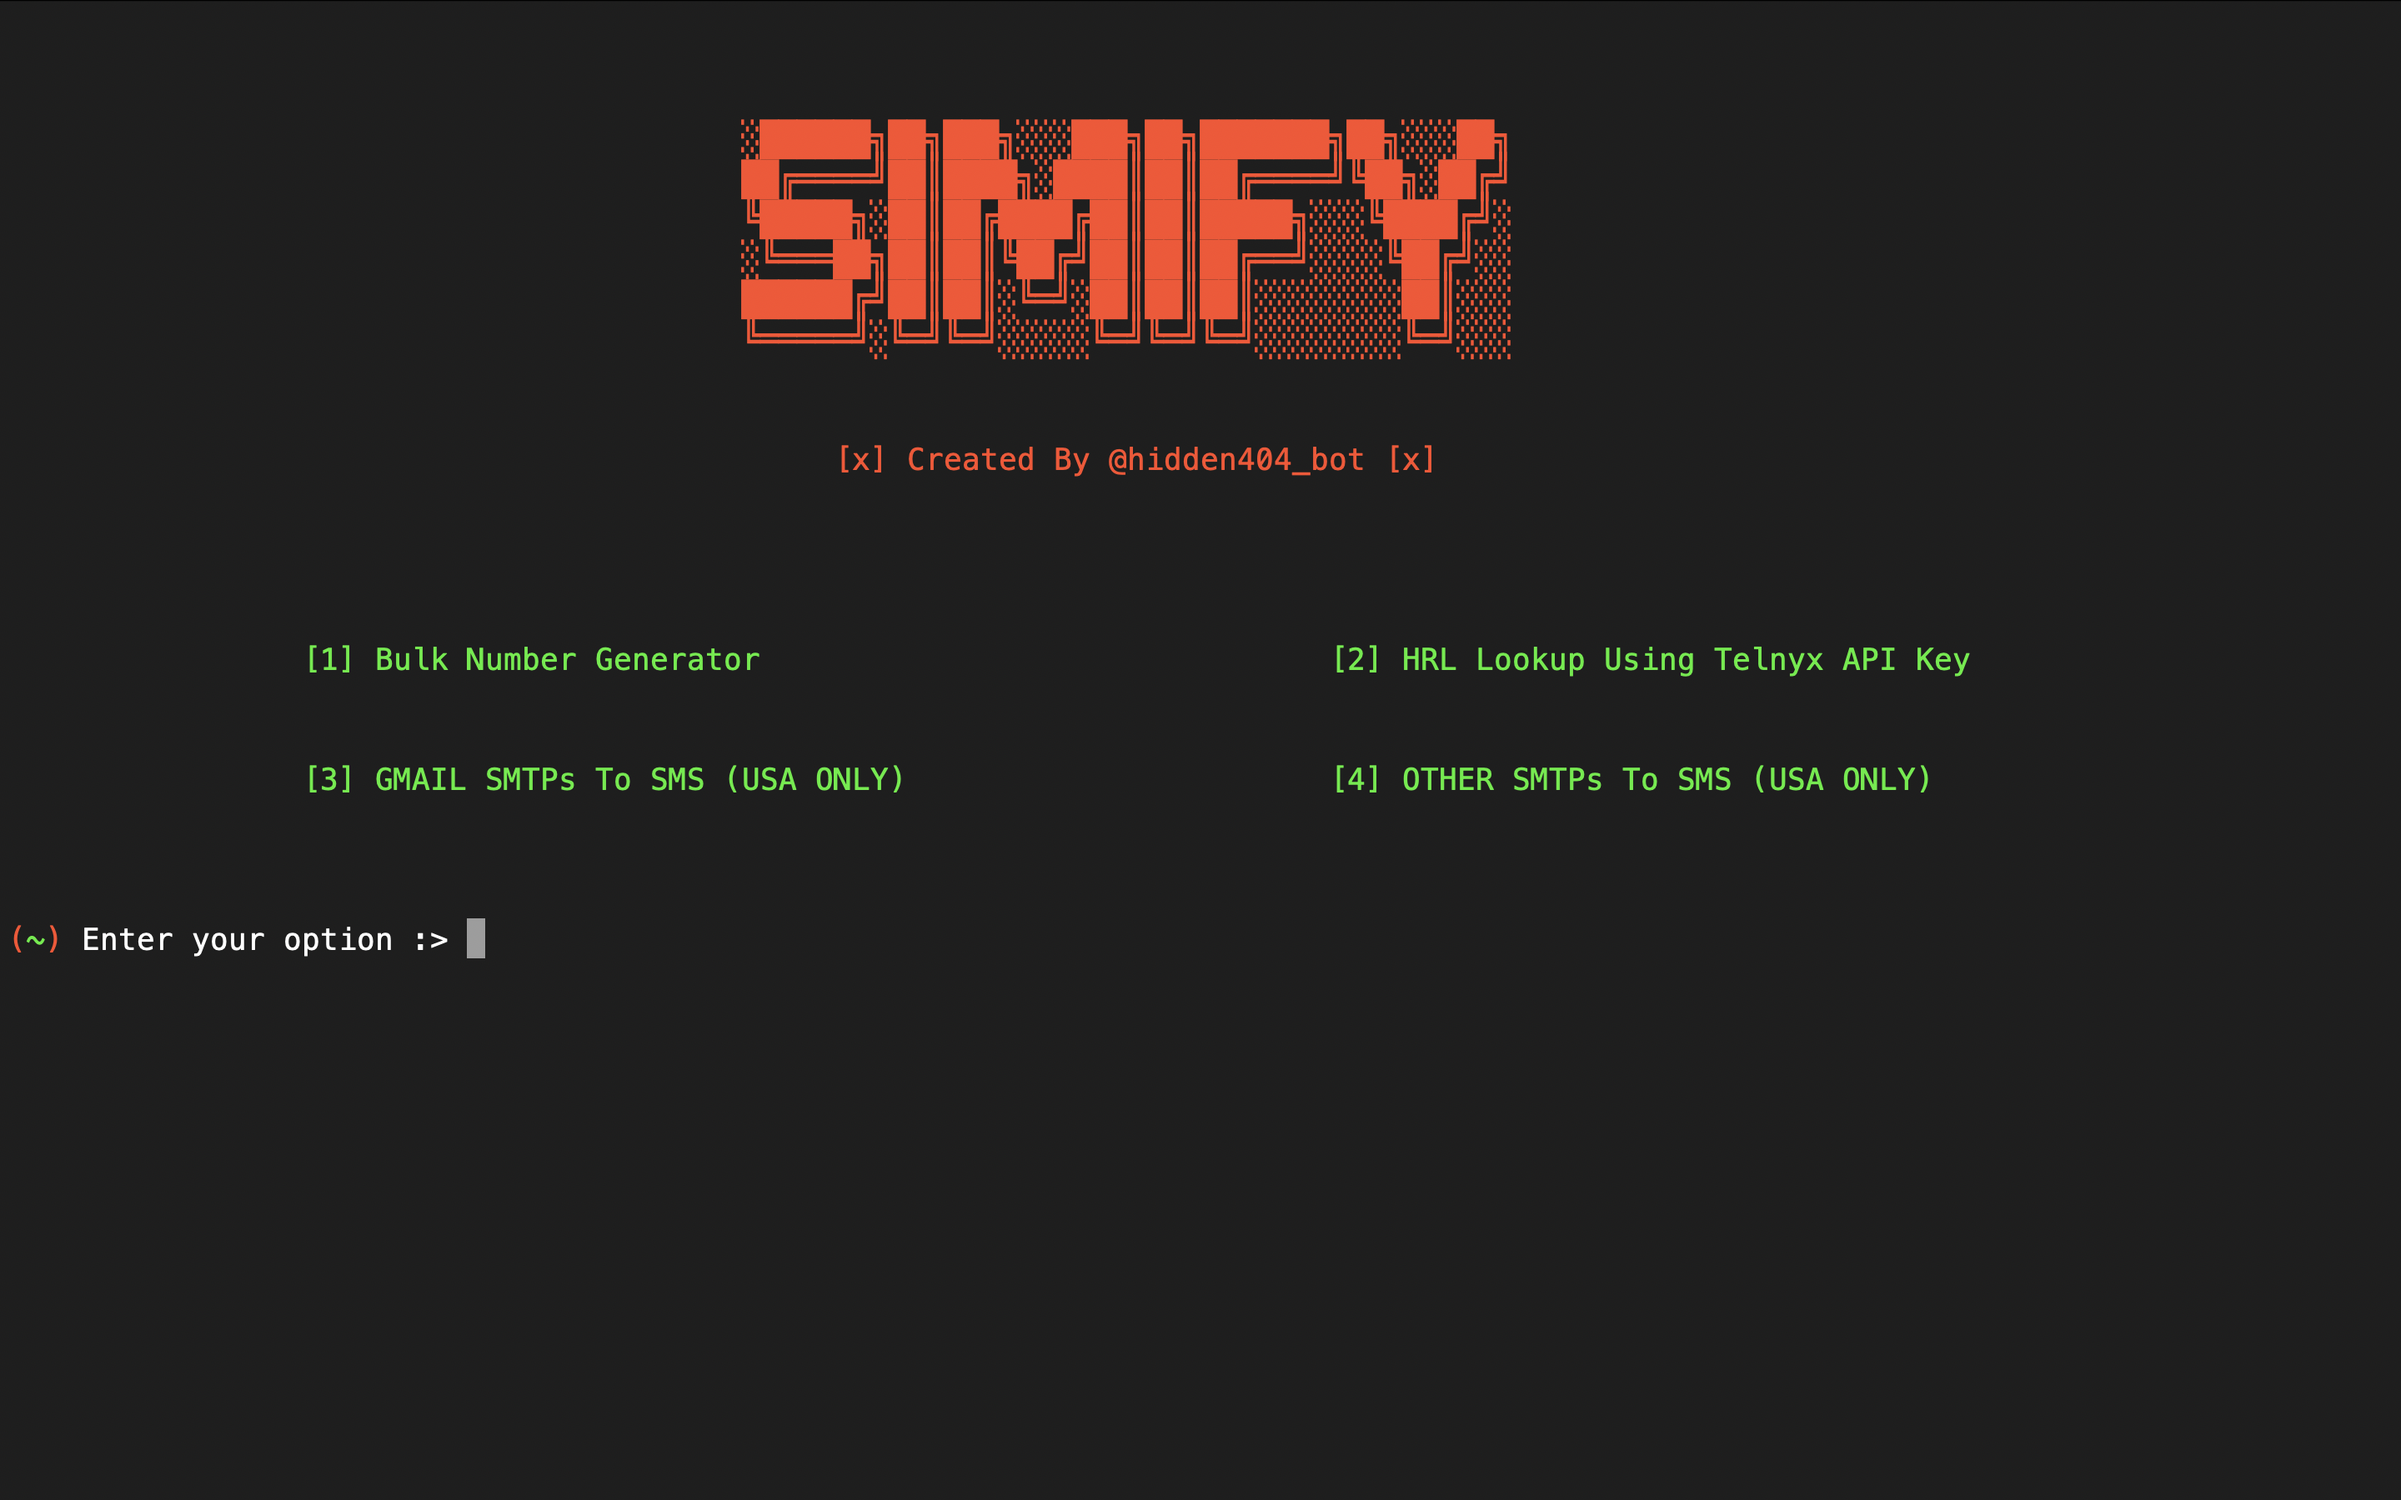
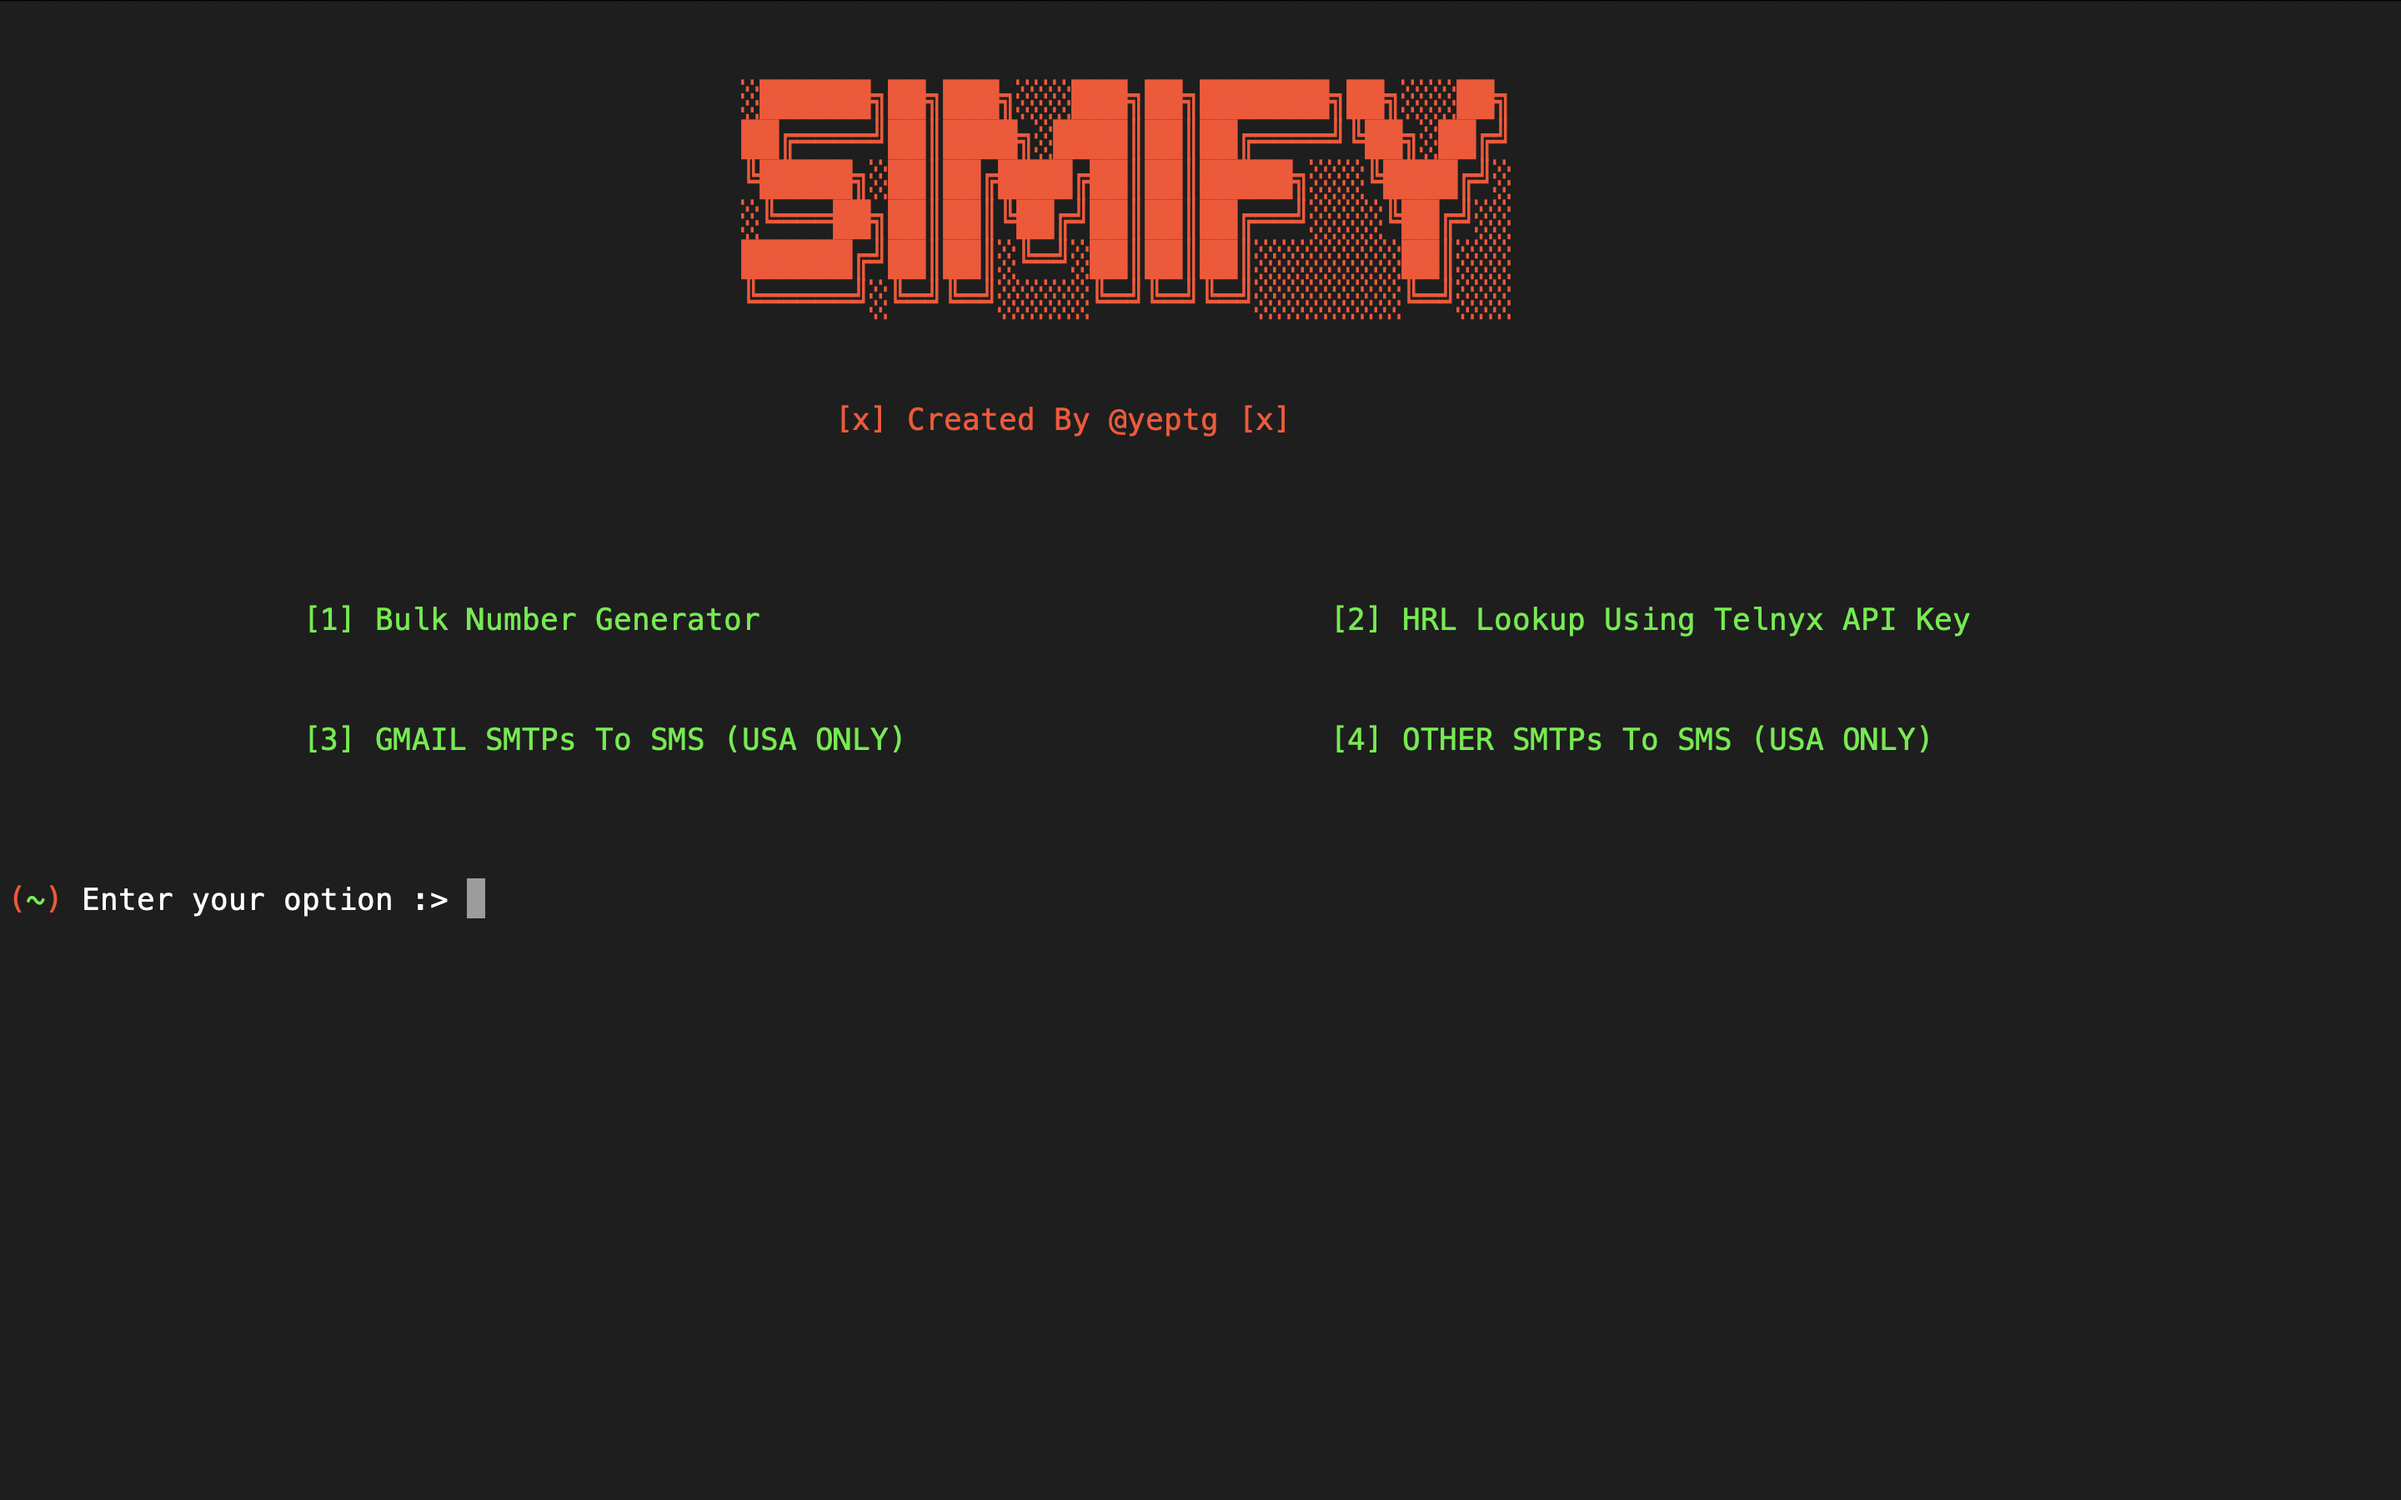
readme

diff --git a/main.go b/main.go
@@ -21,7 +21,7 @@ func main() {
 					╚═════╝░╚═╝╚═╝░░░░░╚═╝╚═╝╚═╝░░░░░░░░╚═╝░░░
 
 
-					     [x] Created By @hidden404_bot [x]
+					     [x] Created By @yeptg [x]
 				 
 				 
 	`
